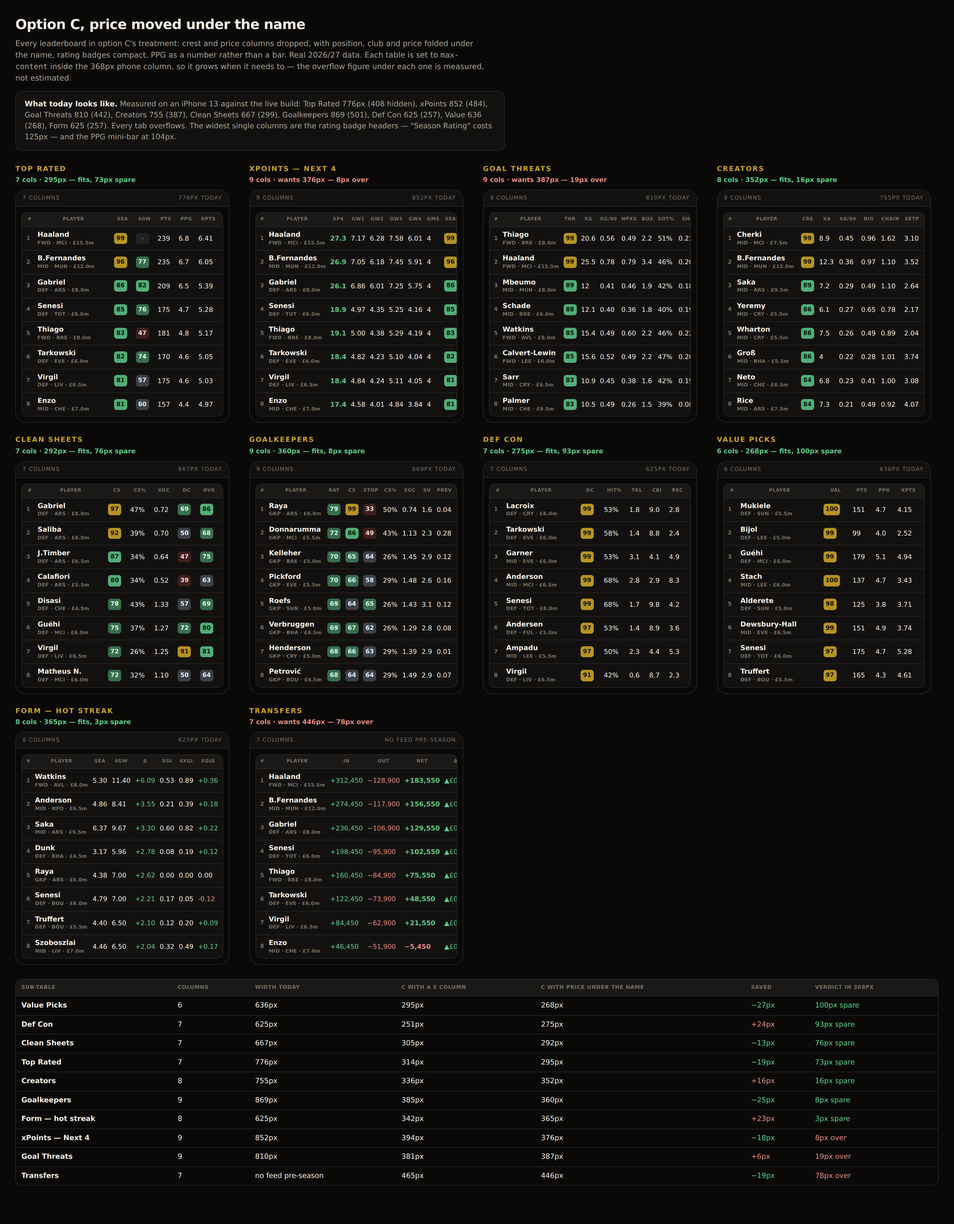
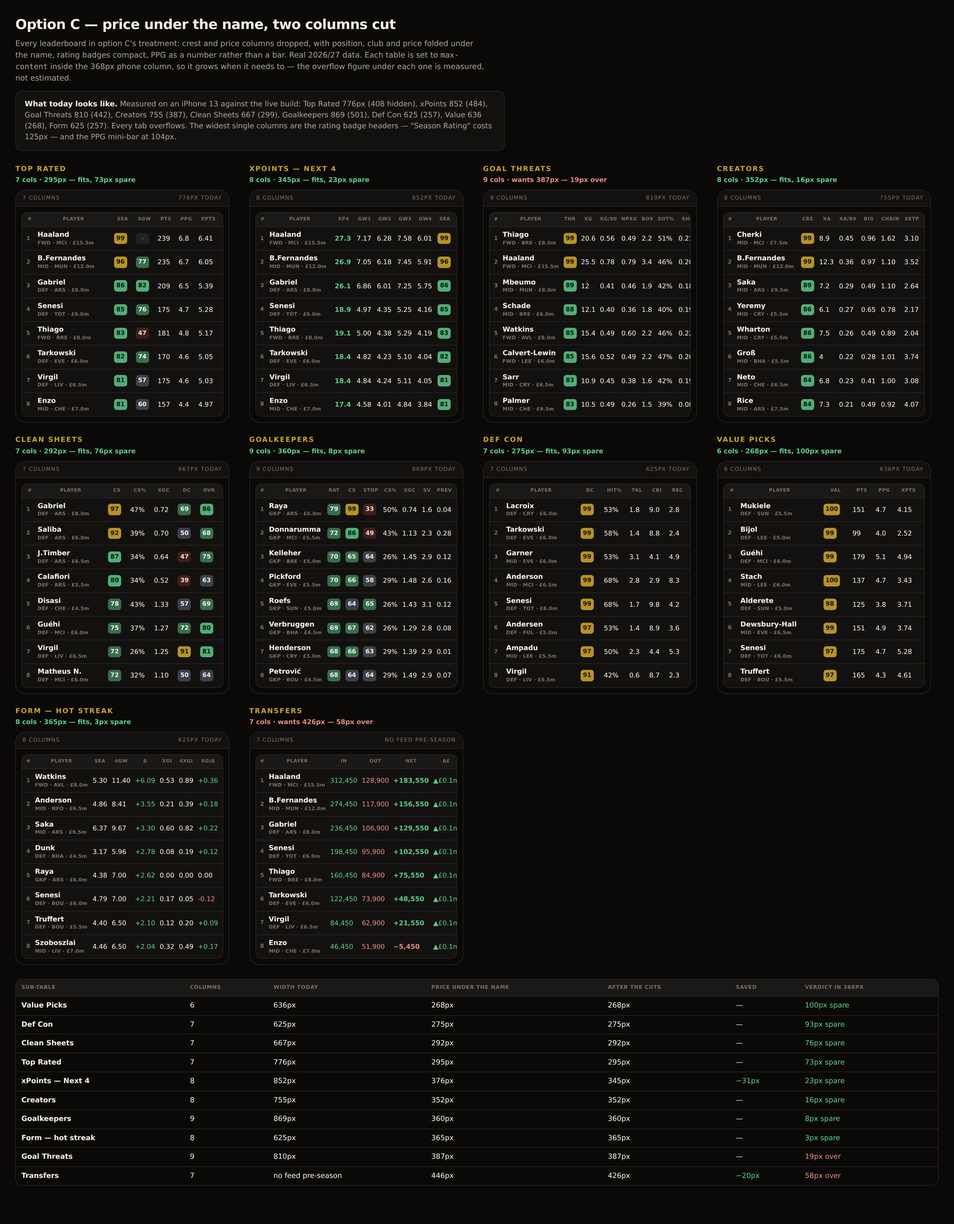
Cut the games column and the transfer signs
xPoints drops Games — the per-gameweek columns already show 0.00 for a
blank and a double's combined total, so the count restated what was on
the same row. It now fits with 23px to spare.

Transfers loses the + and − : the header and the red/green say the
direction. Worth 20px, which leaves it 58px over rather than 78.

diff --git a/mockups/players-c-all.html b/mockups/players-c-all.html
@@ -35,14 +35,14 @@ th:first-child,td:first-child{padding-left:8px}th:last-child,td:last-child{paddi
 .tot td{padding:7px 10px;white-space:normal}
 </style>
 </head><body><div class="wrap">
-<h1>Option C, price moved under the name</h1>
+<h1>Option C — price under the name, two columns cut</h1>
 <p class="sub">Every leaderboard in option C's treatment: crest and price columns dropped, with position, club and price folded under the name, rating badges compact, PPG as a number rather than a bar. Real 2026/27 data. Each table is set to <code>max-content</code> inside the 368px phone column, so it grows when it needs to — the overflow figure under each one is measured, not estimated.</p>
 <div class="note"><b>What today looks like.</b> Measured on an iPhone 13 against the live build: Top Rated 776px (408 hidden), xPoints 852 (484), Goal Threats 810 (442), Creators 755 (387), Clean Sheets 667 (299), Goalkeepers 869 (501), Def Con 625 (257), Value 636 (268), Form 625 (257). Every tab overflows. The widest single columns are the rating badge headers — "Season Rating" costs 125px — and the PPG mini-bar at 104px.</div>
 <div class="grid" id="cols"><div class="col"><h2>Top Rated</h2><p class="verdict fits" id="v-top-rated">7 cols · 295px — fits, 73px spare</p>
    <div class="phone"><div class="ph-top"><span>7 columns</span><span>776px today</span></div>
-   <div class="body"><div class="lst" id="box-top-rated"><table style="min-width: 100%;"><tbody><tr><th>#</th><th>Player</th><th>Sea</th><th>4GW</th><th>Pts</th><th>PPG</th><th>xPts</th></tr><tr><td class="rk">1</td><td><div class="nm">Haaland</div><div class="meta">FWD · MCI · £15.5m</div></td><td><span class="badge g90">99</span></td><td><span class="badge g60" style="opacity:.35">–</span></td><td>239</td><td>6.8</td><td>6.41</td></tr><tr><td class="rk">2</td><td><div class="nm">B.Fernandes</div><div class="meta">MID · MUN · £12.0m</div></td><td><span class="badge g90">96</span></td><td><span class="badge g70">77</span></td><td>235</td><td>6.7</td><td>6.05</td></tr><tr><td class="rk">3</td><td><div class="nm">Gabriel</div><div class="meta">DEF · ARS · £8.0m</div></td><td><span class="badge g80">86</span></td><td><span class="badge g80">82</span></td><td>209</td><td>6.5</td><td>5.39</td></tr><tr><td class="rk">4</td><td><div class="nm">Senesi</div><div class="meta">DEF · TOT · £6.0m</div></td><td><span class="badge g80">85</span></td><td><span class="badge g70">76</span></td><td>175</td><td>4.7</td><td>5.28</td></tr><tr><td class="rk">5</td><td><div class="nm">Thiago</div><div class="meta">FWD · BRE · £8.0m</div></td><td><span class="badge g80">83</span></td><td><span class="badge gl">47</span></td><td>181</td><td>4.8</td><td>5.17</td></tr><tr><td class="rk">6</td><td><div class="nm">Tarkowski</div><div class="meta">DEF · EVE · £6.0m</div></td><td><span class="badge g80">82</span></td><td><span class="badge g70">74</span></td><td>170</td><td>4.6</td><td>5.05</td></tr><tr><td class="rk">7</td><td><div class="nm">Virgil</div><div class="meta">DEF · LIV · £6.5m</div></td><td><span class="badge g80">81</span></td><td><span class="badge g60">57</span></td><td>175</td><td>4.6</td><td>5.03</td></tr><tr><td class="rk">8</td><td><div class="nm">Enzo</div><div class="meta">MID · CHE · £7.0m</div></td><td><span class="badge g80">81</span></td><td><span class="badge g60">60</span></td><td>157</td><td>4.4</td><td>4.97</td></tr></tbody></table></div></div></div></div><div class="col"><h2>xPoints — Next 4</h2><p class="verdict over" id="v-xpoints">9 cols · wants 376px — 8px over</p>
-   <div class="phone"><div class="ph-top"><span>9 columns</span><span>852px today</span></div>
-   <div class="body"><div class="lst" id="box-xpoints"><table style="min-width: 100%;"><tbody><tr><th>#</th><th>Player</th><th>xP4</th><th>GW1</th><th>GW2</th><th>GW3</th><th>GW4</th><th>Gms</th><th>Sea</th></tr><tr><td class="rk">1</td><td><div class="nm">Haaland</div><div class="meta">FWD · MCI · £15.5m</div></td><td><b class="good">27.3</b></td><td>7.17</td><td>6.28</td><td>7.58</td><td>6.01</td><td>4</td><td><span class="badge g90">99</span></td></tr><tr><td class="rk">2</td><td><div class="nm">B.Fernandes</div><div class="meta">MID · MUN · £12.0m</div></td><td><b class="good">26.9</b></td><td>7.05</td><td>6.18</td><td>7.45</td><td>5.91</td><td>4</td><td><span class="badge g90">96</span></td></tr><tr><td class="rk">3</td><td><div class="nm">Gabriel</div><div class="meta">DEF · ARS · £8.0m</div></td><td><b class="good">26.1</b></td><td>6.86</td><td>6.01</td><td>7.25</td><td>5.75</td><td>4</td><td><span class="badge g80">86</span></td></tr><tr><td class="rk">4</td><td><div class="nm">Senesi</div><div class="meta">DEF · TOT · £6.0m</div></td><td><b class="good">18.9</b></td><td>4.97</td><td>4.35</td><td>5.25</td><td>4.16</td><td>4</td><td><span class="badge g80">85</span></td></tr><tr><td class="rk">5</td><td><div class="nm">Thiago</div><div class="meta">FWD · BRE · £8.0m</div></td><td><b class="good">19.1</b></td><td>5.00</td><td>4.38</td><td>5.29</td><td>4.19</td><td>4</td><td><span class="badge g80">83</span></td></tr><tr><td class="rk">6</td><td><div class="nm">Tarkowski</div><div class="meta">DEF · EVE · £6.0m</div></td><td><b class="good">18.4</b></td><td>4.82</td><td>4.23</td><td>5.10</td><td>4.04</td><td>4</td><td><span class="badge g80">82</span></td></tr><tr><td class="rk">7</td><td><div class="nm">Virgil</div><div class="meta">DEF · LIV · £6.5m</div></td><td><b class="good">18.4</b></td><td>4.84</td><td>4.24</td><td>5.11</td><td>4.05</td><td>4</td><td><span class="badge g80">81</span></td></tr><tr><td class="rk">8</td><td><div class="nm">Enzo</div><div class="meta">MID · CHE · £7.0m</div></td><td><b class="good">17.4</b></td><td>4.58</td><td>4.01</td><td>4.84</td><td>3.84</td><td>4</td><td><span class="badge g80">81</span></td></tr></tbody></table></div></div></div></div><div class="col"><h2>Goal Threats</h2><p class="verdict over" id="v-goal-threats">9 cols · wants 387px — 19px over</p>
+   <div class="body"><div class="lst" id="box-top-rated"><table style="min-width: 100%;"><tbody><tr><th>#</th><th>Player</th><th>Sea</th><th>4GW</th><th>Pts</th><th>PPG</th><th>xPts</th></tr><tr><td class="rk">1</td><td><div class="nm">Haaland</div><div class="meta">FWD · MCI · £15.5m</div></td><td><span class="badge g90">99</span></td><td><span class="badge g60" style="opacity:.35">–</span></td><td>239</td><td>6.8</td><td>6.41</td></tr><tr><td class="rk">2</td><td><div class="nm">B.Fernandes</div><div class="meta">MID · MUN · £12.0m</div></td><td><span class="badge g90">96</span></td><td><span class="badge g70">77</span></td><td>235</td><td>6.7</td><td>6.05</td></tr><tr><td class="rk">3</td><td><div class="nm">Gabriel</div><div class="meta">DEF · ARS · £8.0m</div></td><td><span class="badge g80">86</span></td><td><span class="badge g80">82</span></td><td>209</td><td>6.5</td><td>5.39</td></tr><tr><td class="rk">4</td><td><div class="nm">Senesi</div><div class="meta">DEF · TOT · £6.0m</div></td><td><span class="badge g80">85</span></td><td><span class="badge g70">76</span></td><td>175</td><td>4.7</td><td>5.28</td></tr><tr><td class="rk">5</td><td><div class="nm">Thiago</div><div class="meta">FWD · BRE · £8.0m</div></td><td><span class="badge g80">83</span></td><td><span class="badge gl">47</span></td><td>181</td><td>4.8</td><td>5.17</td></tr><tr><td class="rk">6</td><td><div class="nm">Tarkowski</div><div class="meta">DEF · EVE · £6.0m</div></td><td><span class="badge g80">82</span></td><td><span class="badge g70">74</span></td><td>170</td><td>4.6</td><td>5.05</td></tr><tr><td class="rk">7</td><td><div class="nm">Virgil</div><div class="meta">DEF · LIV · £6.5m</div></td><td><span class="badge g80">81</span></td><td><span class="badge g60">57</span></td><td>175</td><td>4.6</td><td>5.03</td></tr><tr><td class="rk">8</td><td><div class="nm">Enzo</div><div class="meta">MID · CHE · £7.0m</div></td><td><span class="badge g80">81</span></td><td><span class="badge g60">60</span></td><td>157</td><td>4.4</td><td>4.97</td></tr></tbody></table></div></div></div></div><div class="col"><h2>xPoints — Next 4</h2><p class="verdict fits" id="v-xpoints">8 cols · 345px — fits, 23px spare</p>
+   <div class="phone"><div class="ph-top"><span>8 columns</span><span>852px today</span></div>
+   <div class="body"><div class="lst" id="box-xpoints"><table style="min-width: 100%;"><tbody><tr><th>#</th><th>Player</th><th>xP4</th><th>GW1</th><th>GW2</th><th>GW3</th><th>GW4</th><th>Sea</th></tr><tr><td class="rk">1</td><td><div class="nm">Haaland</div><div class="meta">FWD · MCI · £15.5m</div></td><td><b class="good">27.3</b></td><td>7.17</td><td>6.28</td><td>7.58</td><td>6.01</td><td><span class="badge g90">99</span></td></tr><tr><td class="rk">2</td><td><div class="nm">B.Fernandes</div><div class="meta">MID · MUN · £12.0m</div></td><td><b class="good">26.9</b></td><td>7.05</td><td>6.18</td><td>7.45</td><td>5.91</td><td><span class="badge g90">96</span></td></tr><tr><td class="rk">3</td><td><div class="nm">Gabriel</div><div class="meta">DEF · ARS · £8.0m</div></td><td><b class="good">26.1</b></td><td>6.86</td><td>6.01</td><td>7.25</td><td>5.75</td><td><span class="badge g80">86</span></td></tr><tr><td class="rk">4</td><td><div class="nm">Senesi</div><div class="meta">DEF · TOT · £6.0m</div></td><td><b class="good">18.9</b></td><td>4.97</td><td>4.35</td><td>5.25</td><td>4.16</td><td><span class="badge g80">85</span></td></tr><tr><td class="rk">5</td><td><div class="nm">Thiago</div><div class="meta">FWD · BRE · £8.0m</div></td><td><b class="good">19.1</b></td><td>5.00</td><td>4.38</td><td>5.29</td><td>4.19</td><td><span class="badge g80">83</span></td></tr><tr><td class="rk">6</td><td><div class="nm">Tarkowski</div><div class="meta">DEF · EVE · £6.0m</div></td><td><b class="good">18.4</b></td><td>4.82</td><td>4.23</td><td>5.10</td><td>4.04</td><td><span class="badge g80">82</span></td></tr><tr><td class="rk">7</td><td><div class="nm">Virgil</div><div class="meta">DEF · LIV · £6.5m</div></td><td><b class="good">18.4</b></td><td>4.84</td><td>4.24</td><td>5.11</td><td>4.05</td><td><span class="badge g80">81</span></td></tr><tr><td class="rk">8</td><td><div class="nm">Enzo</div><div class="meta">MID · CHE · £7.0m</div></td><td><b class="good">17.4</b></td><td>4.58</td><td>4.01</td><td>4.84</td><td>3.84</td><td><span class="badge g80">81</span></td></tr></tbody></table></div></div></div></div><div class="col"><h2>Goal Threats</h2><p class="verdict over" id="v-goal-threats">9 cols · wants 387px — 19px over</p>
    <div class="phone"><div class="ph-top"><span>9 columns</span><span>810px today</span></div>
    <div class="body"><div class="lst" id="box-goal-threats"><table style="min-width: 100%;"><tbody><tr><th>#</th><th>Player</th><th>Thr</th><th>xG</th><th>xG/90</th><th>npxG</th><th>Box</th><th>SoT%</th><th>ShQ</th></tr><tr><td class="rk">1</td><td><div class="nm">Thiago</div><div class="meta">FWD · BRE · £8.0m</div></td><td><span class="badge g90">99</span></td><td>20.6</td><td>0.56</td><td>0.49</td><td>2.2</td><td>51%</td><td>0.212</td></tr><tr><td class="rk">2</td><td><div class="nm">Haaland</div><div class="meta">FWD · MCI · £15.5m</div></td><td><span class="badge g90">99</span></td><td>25.5</td><td>0.78</td><td>0.79</td><td>3.4</td><td>46%</td><td>0.206</td></tr><tr><td class="rk">3</td><td><div class="nm">Mbeumo</div><div class="meta">MID · MUN · £8.0m</div></td><td><span class="badge g80">89</span></td><td>12</td><td>0.41</td><td>0.46</td><td>1.9</td><td>42%</td><td>0.182</td></tr><tr><td class="rk">4</td><td><div class="nm">Schade</div><div class="meta">MID · BRE · £6.0m</div></td><td><span class="badge g80">88</span></td><td>12.1</td><td>0.40</td><td>0.36</td><td>1.8</td><td>40%</td><td>0.194</td></tr><tr><td class="rk">5</td><td><div class="nm">Watkins</div><div class="meta">FWD · AVL · £8.0m</div></td><td><span class="badge g80">85</span></td><td>15.4</td><td>0.49</td><td>0.60</td><td>2.2</td><td>46%</td><td>0.227</td></tr><tr><td class="rk">6</td><td><div class="nm">Calvert-Lewin</div><div class="meta">FWD · LEE · £6.0m</div></td><td><span class="badge g80">85</span></td><td>15.6</td><td>0.52</td><td>0.49</td><td>2.2</td><td>47%</td><td>0.204</td></tr><tr><td class="rk">7</td><td><div class="nm">Sarr</div><div class="meta">MID · CRY · £6.5m</div></td><td><span class="badge g80">83</span></td><td>10.9</td><td>0.45</td><td>0.38</td><td>1.6</td><td>42%</td><td>0.193</td></tr><tr><td class="rk">8</td><td><div class="nm">Palmer</div><div class="meta">MID · CHE · £9.5m</div></td><td><span class="badge g80">83</span></td><td>10.5</td><td>0.49</td><td>0.26</td><td>1.5</td><td>39%</td><td>0.089</td></tr></tbody></table></div></div></div></div><div class="col"><h2>Creators</h2><p class="verdict fits" id="v-creators">8 cols · 352px — fits, 16px spare</p>
    <div class="phone"><div class="ph-top"><span>8 columns</span><span>755px today</span></div>
@@ -56,32 +56,32 @@ th:first-child,td:first-child{padding-left:8px}th:last-child,td:last-child{paddi
    <div class="phone"><div class="ph-top"><span>6 columns</span><span>636px today</span></div>
    <div class="body"><div class="lst" id="box-value"><table style="min-width: 100%;"><tbody><tr><th>#</th><th>Player</th><th>Val</th><th>Pts</th><th>PPG</th><th>xPts</th></tr><tr><td class="rk">1</td><td><div class="nm">Mukiele</div><div class="meta">DEF · SUN · £5.5m</div></td><td><span class="badge g90">100</span></td><td>151</td><td>4.7</td><td>4.15</td></tr><tr><td class="rk">2</td><td><div class="nm">Bijol</div><div class="meta">DEF · LEE · £5.0m</div></td><td><span class="badge g90">99</span></td><td>99</td><td>4.0</td><td>2.52</td></tr><tr><td class="rk">3</td><td><div class="nm">Guéhi</div><div class="meta">DEF · MCI · £6.0m</div></td><td><span class="badge g90">99</span></td><td>179</td><td>5.1</td><td>4.94</td></tr><tr><td class="rk">4</td><td><div class="nm">Stach</div><div class="meta">MID · LEE · £6.0m</div></td><td><span class="badge g90">100</span></td><td>137</td><td>4.7</td><td>3.43</td></tr><tr><td class="rk">5</td><td><div class="nm">Alderete</div><div class="meta">DEF · SUN · £5.0m</div></td><td><span class="badge g90">98</span></td><td>125</td><td>3.8</td><td>3.71</td></tr><tr><td class="rk">6</td><td><div class="nm">Dewsbury-Hall</div><div class="meta">MID · EVE · £6.5m</div></td><td><span class="badge g90">99</span></td><td>151</td><td>4.9</td><td>3.74</td></tr><tr><td class="rk">7</td><td><div class="nm">Senesi</div><div class="meta">DEF · TOT · £6.0m</div></td><td><span class="badge g90">97</span></td><td>175</td><td>4.7</td><td>5.28</td></tr><tr><td class="rk">8</td><td><div class="nm">Truffert</div><div class="meta">DEF · BOU · £5.5m</div></td><td><span class="badge g90">97</span></td><td>165</td><td>4.3</td><td>4.61</td></tr></tbody></table></div></div></div></div><div class="col"><h2>Form — hot streak</h2><p class="verdict fits" id="v-form">8 cols · 365px — fits, 3px spare</p>
    <div class="phone"><div class="ph-top"><span>8 columns</span><span>625px today</span></div>
-   <div class="body"><div class="lst" id="box-form"><table style="min-width: 100%;"><tbody><tr><th>#</th><th>Player</th><th>Sea</th><th>4GW</th><th>Δ</th><th>xGI</th><th>4xGI</th><th>xGIΔ</th></tr><tr><td class="rk">1</td><td><div class="nm">Watkins</div><div class="meta">FWD · AVL · £8.0m</div></td><td>5.30</td><td>11.40</td><td><span class="good">+6.09</span></td><td>0.53</td><td>0.89</td><td><span class="good">+0.36</span></td></tr><tr><td class="rk">2</td><td><div class="nm">Anderson</div><div class="meta">MID · NFO · £6.5m</div></td><td>4.86</td><td>8.41</td><td><span class="good">+3.55</span></td><td>0.21</td><td>0.39</td><td><span class="good">+0.18</span></td></tr><tr><td class="rk">3</td><td><div class="nm">Saka</div><div class="meta">MID · ARS · £9.5m</div></td><td>6.37</td><td>9.67</td><td><span class="good">+3.30</span></td><td>0.60</td><td>0.82</td><td><span class="good">+0.22</span></td></tr><tr><td class="rk">4</td><td><div class="nm">Dunk</div><div class="meta">DEF · BHA · £4.5m</div></td><td>3.17</td><td>5.96</td><td><span class="good">+2.78</span></td><td>0.08</td><td>0.19</td><td><span class="good">+0.12</span></td></tr><tr><td class="rk">5</td><td><div class="nm">Raya</div><div class="meta">GKP · ARS · £6.0m</div></td><td>4.38</td><td>7.00</td><td><span class="good">+2.62</span></td><td>0.00</td><td>0.00</td><td><span class="">0.00</span></td></tr><tr><td class="rk">6</td><td><div class="nm">Senesi</div><div class="meta">DEF · BOU · £6.0m</div></td><td>4.79</td><td>7.00</td><td><span class="good">+2.21</span></td><td>0.17</td><td>0.05</td><td><span class="bad">-0.12</span></td></tr><tr><td class="rk">7</td><td><div class="nm">Truffert</div><div class="meta">DEF · BOU · £5.5m</div></td><td>4.40</td><td>6.50</td><td><span class="good">+2.10</span></td><td>0.12</td><td>0.20</td><td><span class="good">+0.09</span></td></tr><tr><td class="rk">8</td><td><div class="nm">Szoboszlai</div><div class="meta">MID · LIV · £7.0m</div></td><td>4.46</td><td>6.50</td><td><span class="good">+2.04</span></td><td>0.32</td><td>0.49</td><td><span class="good">+0.17</span></td></tr></tbody></table></div></div></div></div><div class="col"><h2>Transfers</h2><p class="verdict over" id="v-transfers">7 cols · wants 446px — 78px over</p>
+   <div class="body"><div class="lst" id="box-form"><table style="min-width: 100%;"><tbody><tr><th>#</th><th>Player</th><th>Sea</th><th>4GW</th><th>Δ</th><th>xGI</th><th>4xGI</th><th>xGIΔ</th></tr><tr><td class="rk">1</td><td><div class="nm">Watkins</div><div class="meta">FWD · AVL · £8.0m</div></td><td>5.30</td><td>11.40</td><td><span class="good">+6.09</span></td><td>0.53</td><td>0.89</td><td><span class="good">+0.36</span></td></tr><tr><td class="rk">2</td><td><div class="nm">Anderson</div><div class="meta">MID · NFO · £6.5m</div></td><td>4.86</td><td>8.41</td><td><span class="good">+3.55</span></td><td>0.21</td><td>0.39</td><td><span class="good">+0.18</span></td></tr><tr><td class="rk">3</td><td><div class="nm">Saka</div><div class="meta">MID · ARS · £9.5m</div></td><td>6.37</td><td>9.67</td><td><span class="good">+3.30</span></td><td>0.60</td><td>0.82</td><td><span class="good">+0.22</span></td></tr><tr><td class="rk">4</td><td><div class="nm">Dunk</div><div class="meta">DEF · BHA · £4.5m</div></td><td>3.17</td><td>5.96</td><td><span class="good">+2.78</span></td><td>0.08</td><td>0.19</td><td><span class="good">+0.12</span></td></tr><tr><td class="rk">5</td><td><div class="nm">Raya</div><div class="meta">GKP · ARS · £6.0m</div></td><td>4.38</td><td>7.00</td><td><span class="good">+2.62</span></td><td>0.00</td><td>0.00</td><td><span class="">0.00</span></td></tr><tr><td class="rk">6</td><td><div class="nm">Senesi</div><div class="meta">DEF · BOU · £6.0m</div></td><td>4.79</td><td>7.00</td><td><span class="good">+2.21</span></td><td>0.17</td><td>0.05</td><td><span class="bad">-0.12</span></td></tr><tr><td class="rk">7</td><td><div class="nm">Truffert</div><div class="meta">DEF · BOU · £5.5m</div></td><td>4.40</td><td>6.50</td><td><span class="good">+2.10</span></td><td>0.12</td><td>0.20</td><td><span class="good">+0.09</span></td></tr><tr><td class="rk">8</td><td><div class="nm">Szoboszlai</div><div class="meta">MID · LIV · £7.0m</div></td><td>4.46</td><td>6.50</td><td><span class="good">+2.04</span></td><td>0.32</td><td>0.49</td><td><span class="good">+0.17</span></td></tr></tbody></table></div></div></div></div><div class="col"><h2>Transfers</h2><p class="verdict over" id="v-transfers">7 cols · wants 426px — 58px over</p>
    <div class="phone"><div class="ph-top"><span>7 columns</span><span>no feed pre-season</span></div>
-   <div class="body"><div class="lst" id="box-transfers"><table style="min-width: 100%;"><tbody><tr><th>#</th><th>Player</th><th>In</th><th>Out</th><th>Net</th><th>Δ£</th><th>Own</th></tr><tr><td class="rk">1</td><td><div class="nm">Haaland</div><div class="meta">FWD · MCI · £15.5m</div></td><td><span class="good">+312,450</span></td><td><span class="bad">−128,900</span></td><td><b class="good">+183,550</b></td><td><span class="good">▲£0.1m</span></td><td>48.2%</td></tr><tr><td class="rk">2</td><td><div class="nm">B.Fernandes</div><div class="meta">MID · MUN · £12.0m</div></td><td><span class="good">+274,450</span></td><td><span class="bad">−117,900</span></td><td><b class="good">+156,550</b></td><td><span class="good">▲£0.1m</span></td><td>44.1%</td></tr><tr><td class="rk">3</td><td><div class="nm">Gabriel</div><div class="meta">DEF · ARS · £8.0m</div></td><td><span class="good">+236,450</span></td><td><span class="bad">−106,900</span></td><td><b class="good">+129,550</b></td><td><span class="good">▲£0.1m</span></td><td>40.0%</td></tr><tr><td class="rk">4</td><td><div class="nm">Senesi</div><div class="meta">DEF · TOT · £6.0m</div></td><td><span class="good">+198,450</span></td><td><span class="bad">−95,900</span></td><td><b class="good">+102,550</b></td><td><span class="good">▲£0.1m</span></td><td>35.9%</td></tr><tr><td class="rk">5</td><td><div class="nm">Thiago</div><div class="meta">FWD · BRE · £8.0m</div></td><td><span class="good">+160,450</span></td><td><span class="bad">−84,900</span></td><td><b class="good">+75,550</b></td><td><span class="good">▲£0.1m</span></td><td>31.8%</td></tr><tr><td class="rk">6</td><td><div class="nm">Tarkowski</div><div class="meta">DEF · EVE · £6.0m</div></td><td><span class="good">+122,450</span></td><td><span class="bad">−73,900</span></td><td><b class="good">+48,550</b></td><td><span class="good">▲£0.1m</span></td><td>27.7%</td></tr><tr><td class="rk">7</td><td><div class="nm">Virgil</div><div class="meta">DEF · LIV · £6.5m</div></td><td><span class="good">+84,450</span></td><td><span class="bad">−62,900</span></td><td><b class="good">+21,550</b></td><td><span class="good">▲£0.1m</span></td><td>23.6%</td></tr><tr><td class="rk">8</td><td><div class="nm">Enzo</div><div class="meta">MID · CHE · £7.0m</div></td><td><span class="good">+46,450</span></td><td><span class="bad">−51,900</span></td><td><b class="bad">−5,450</b></td><td><span class="good">▲£0.1m</span></td><td>19.5%</td></tr></tbody></table></div></div></div></div></div>
+   <div class="body"><div class="lst" id="box-transfers"><table style="min-width: 100%;"><tbody><tr><th>#</th><th>Player</th><th>In</th><th>Out</th><th>Net</th><th>Δ£</th><th>Own</th></tr><tr><td class="rk">1</td><td><div class="nm">Haaland</div><div class="meta">FWD · MCI · £15.5m</div></td><td><span class="good">312,450</span></td><td><span class="bad">128,900</span></td><td><b class="good">+183,550</b></td><td><span class="good">▲£0.1m</span></td><td>48.2%</td></tr><tr><td class="rk">2</td><td><div class="nm">B.Fernandes</div><div class="meta">MID · MUN · £12.0m</div></td><td><span class="good">274,450</span></td><td><span class="bad">117,900</span></td><td><b class="good">+156,550</b></td><td><span class="good">▲£0.1m</span></td><td>44.1%</td></tr><tr><td class="rk">3</td><td><div class="nm">Gabriel</div><div class="meta">DEF · ARS · £8.0m</div></td><td><span class="good">236,450</span></td><td><span class="bad">106,900</span></td><td><b class="good">+129,550</b></td><td><span class="good">▲£0.1m</span></td><td>40.0%</td></tr><tr><td class="rk">4</td><td><div class="nm">Senesi</div><div class="meta">DEF · TOT · £6.0m</div></td><td><span class="good">198,450</span></td><td><span class="bad">95,900</span></td><td><b class="good">+102,550</b></td><td><span class="good">▲£0.1m</span></td><td>35.9%</td></tr><tr><td class="rk">5</td><td><div class="nm">Thiago</div><div class="meta">FWD · BRE · £8.0m</div></td><td><span class="good">160,450</span></td><td><span class="bad">84,900</span></td><td><b class="good">+75,550</b></td><td><span class="good">▲£0.1m</span></td><td>31.8%</td></tr><tr><td class="rk">6</td><td><div class="nm">Tarkowski</div><div class="meta">DEF · EVE · £6.0m</div></td><td><span class="good">122,450</span></td><td><span class="bad">73,900</span></td><td><b class="good">+48,550</b></td><td><span class="good">▲£0.1m</span></td><td>27.7%</td></tr><tr><td class="rk">7</td><td><div class="nm">Virgil</div><div class="meta">DEF · LIV · £6.5m</div></td><td><span class="good">84,450</span></td><td><span class="bad">62,900</span></td><td><b class="good">+21,550</b></td><td><span class="good">▲£0.1m</span></td><td>23.6%</td></tr><tr><td class="rk">8</td><td><div class="nm">Enzo</div><div class="meta">MID · CHE · £7.0m</div></td><td><span class="good">46,450</span></td><td><span class="bad">51,900</span></td><td><b class="bad">−5,450</b></td><td><span class="good">▲£0.1m</span></td><td>19.5%</td></tr></tbody></table></div></div></div></div></div>
 <div class="tot" id="tot"><table>
-<tbody><tr><th>Sub-table</th><th>Columns</th><th>Width today</th><th>C with a £ column</th><th>C with price under the name</th><th>Saved</th><th>Verdict in 368px</th></tr>
-<tr><td><b>Value Picks</b></td><td>6</td><td>636px</td><td>295px</td><td>268px</td>
- <td class="good">−27px</td>
- <td class="good">100px spare</td></tr><tr><td><b>Def Con</b></td><td>7</td><td>625px</td><td>251px</td><td>275px</td>
- <td class="bad">+24px</td>
- <td class="good">93px spare</td></tr><tr><td><b>Clean Sheets</b></td><td>7</td><td>667px</td><td>305px</td><td>292px</td>
- <td class="good">−13px</td>
- <td class="good">76px spare</td></tr><tr><td><b>Top Rated</b></td><td>7</td><td>776px</td><td>314px</td><td>295px</td>
- <td class="good">−19px</td>
- <td class="good">73px spare</td></tr><tr><td><b>Creators</b></td><td>8</td><td>755px</td><td>336px</td><td>352px</td>
- <td class="bad">+16px</td>
- <td class="good">16px spare</td></tr><tr><td><b>Goalkeepers</b></td><td>9</td><td>869px</td><td>385px</td><td>360px</td>
- <td class="good">−25px</td>
- <td class="good">8px spare</td></tr><tr><td><b>Form — hot streak</b></td><td>8</td><td>625px</td><td>342px</td><td>365px</td>
- <td class="bad">+23px</td>
- <td class="good">3px spare</td></tr><tr><td><b>xPoints — Next 4</b></td><td>9</td><td>852px</td><td>394px</td><td>376px</td>
- <td class="good">−18px</td>
- <td class="bad">8px over</td></tr><tr><td><b>Goal Threats</b></td><td>9</td><td>810px</td><td>381px</td><td>387px</td>
- <td class="bad">+6px</td>
- <td class="bad">19px over</td></tr><tr><td><b>Transfers</b></td><td>7</td><td>no feed pre-season</td><td>465px</td><td>446px</td>
- <td class="good">−19px</td>
- <td class="bad">78px over</td></tr>
+<tbody><tr><th>Sub-table</th><th>Columns</th><th>Width today</th><th>Price under the name</th><th>After the cuts</th><th>Saved</th><th>Verdict in 368px</th></tr>
+<tr><td><b>Value Picks</b></td><td>6</td><td>636px</td><td>268px</td><td>268px</td>
+ <td class="">—</td>
+ <td class="good">100px spare</td></tr><tr><td><b>Def Con</b></td><td>7</td><td>625px</td><td>275px</td><td>275px</td>
+ <td class="">—</td>
+ <td class="good">93px spare</td></tr><tr><td><b>Clean Sheets</b></td><td>7</td><td>667px</td><td>292px</td><td>292px</td>
+ <td class="">—</td>
+ <td class="good">76px spare</td></tr><tr><td><b>Top Rated</b></td><td>7</td><td>776px</td><td>295px</td><td>295px</td>
+ <td class="">—</td>
+ <td class="good">73px spare</td></tr><tr><td><b>xPoints — Next 4</b></td><td>8</td><td>852px</td><td>376px</td><td>345px</td>
+ <td class="good">−31px</td>
+ <td class="good">23px spare</td></tr><tr><td><b>Creators</b></td><td>8</td><td>755px</td><td>352px</td><td>352px</td>
+ <td class="">—</td>
+ <td class="good">16px spare</td></tr><tr><td><b>Goalkeepers</b></td><td>9</td><td>869px</td><td>360px</td><td>360px</td>
+ <td class="">—</td>
+ <td class="good">8px spare</td></tr><tr><td><b>Form — hot streak</b></td><td>8</td><td>625px</td><td>365px</td><td>365px</td>
+ <td class="">—</td>
+ <td class="good">3px spare</td></tr><tr><td><b>Goal Threats</b></td><td>9</td><td>810px</td><td>387px</td><td>387px</td>
+ <td class="">—</td>
+ <td class="bad">19px over</td></tr><tr><td><b>Transfers</b></td><td>7</td><td>no feed pre-season</td><td>446px</td><td>426px</td>
+ <td class="good">−20px</td>
+ <td class="bad">58px over</td></tr>
 </tbody></table></div>
 </div>
 

diff --git a/mockups/players-c-all.src.html b/mockups/players-c-all.src.html
@@ -34,7 +34,7 @@ th:first-child,td:first-child{padding-left:8px}th:last-child,td:last-child{paddi
 .tot td{padding:7px 10px;white-space:normal}
 </style>
 <div class="wrap">
-<h1>Option C, price moved under the name</h1>
+<h1>Option C — price under the name, two columns cut</h1>
 <p class="sub">Every leaderboard in option C's treatment: crest and price columns dropped, with position, club and price folded under the name, rating badges compact, PPG as a number rather than a bar. Real 2026/27 data. Each table is set to <code>max-content</code> inside the 368px phone column, so it grows when it needs to — the overflow figure under each one is measured, not estimated.</p>
 <div class="note"><b>What today looks like.</b> Measured on an iPhone 13 against the live build: Top Rated 776px (408 hidden), xPoints 852 (484), Goal Threats 810 (442), Creators 755 (387), Clean Sheets 667 (299), Goalkeepers 869 (501), Def Con 625 (257), Value 636 (268), Form 625 (257). Every tab overflows. The widest single columns are the rating badge headers — "Season Rating" costs 125px — and the PPG mini-bar at 104px.</div>
 <div class="grid" id="cols"></div>
@@ -47,12 +47,12 @@ const bd = v => v==null?'<span class="badge g60" style="opacity:.35">–</span>'
 const nm = p => `<div class="nm">${p.n}</div><div class="meta">${p.pos} · ${p.team}${p.price!=null?' · £'+p.price.toFixed(1)+'m':''}</div>`;
 const sgn = v => `<span class="${v>0?'good':v<0?'bad':''}">${v>0?'+':''}${v}</span>`;
 
-const WAS = {"top-rated": 314, "xpoints": 394, "goal-threats": 381, "creators": 336, "clean-sheets": 305, "goalkeepers": 385, "def-con": 251, "value": 295, "form": 342, "transfers": 465};
+const WAS = {"top-rated": 295, "xpoints": 376, "goal-threats": 387, "creators": 352, "clean-sheets": 292, "goalkeepers": 360, "def-con": 275, "value": 268, "form": 365, "transfers": 446};
 const PANELS = [
  { id:'top-rated', t:'Top Rated', now:776, hdr:['#','Player','Sea','4GW','Pts','PPG','xPts'],
    row:(p,i)=>[i+1, nm(p), bd(p.sea), bd(p.gw4), p.pts, p.ppg.toFixed(1), p.xpts.toFixed(2)] },
- { id:'xpoints', t:'xPoints — Next 4', now:852, hdr:['#','Player','xP4','GW1','GW2','GW3','GW4','Gms','Sea'],
-   row:(p,i)=>[i+1, nm(p), `<b class="good">${p.xp4.toFixed(1)}</b>`, p.g1.toFixed(2), p.g2.toFixed(2), p.g3.toFixed(2), p.g4.toFixed(2), p.games, bd(p.sea)] },
+ { id:'xpoints', t:'xPoints — Next 4', now:852, hdr:['#','Player','xP4','GW1','GW2','GW3','GW4','Sea'],
+   row:(p,i)=>[i+1, nm(p), `<b class="good">${p.xp4.toFixed(1)}</b>`, p.g1.toFixed(2), p.g2.toFixed(2), p.g3.toFixed(2), p.g4.toFixed(2), bd(p.sea)] },
  { id:'goal-threats', t:'Goal Threats', now:810, hdr:['#','Player','Thr','xG','xG/90','npxG','Box','SoT%','ShQ'],
    row:(p,i)=>[i+1, nm(p), bd(p.thr), p.xg, p.xg90.toFixed(2), p.npxg.toFixed(2), p.box.toFixed(1), p.sot+'%', p.q.toFixed(3)] },
  { id:'creators', t:'Creators', now:755, hdr:['#','Player','Cre','xA','xA/90','Big','Chain','SetP'],
@@ -68,7 +68,7 @@ const PANELS = [
  { id:'form', t:'Form — hot streak', now:625, hdr:['#','Player','Sea','4GW','Δ','xGI','4xGI','xGIΔ'],
    row:(p,i)=>[i+1, nm(p), p.s90.toFixed(2), p.f90.toFixed(2), sgn(p.d.toFixed(2)), p.xs.toFixed(2), p.xf.toFixed(2), sgn(p.xd.toFixed(2))] },
  { id:'transfers', t:'Transfers', now:null, hdr:['#','Player','In','Out','Net','Δ£','Own'],
-   row:(p,i)=>[i+1, nm(p), `<span class="good">+${p.tin.toLocaleString()}</span>`, `<span class="bad">−${p.tout.toLocaleString()}</span>`,
+   row:(p,i)=>[i+1, nm(p), `<span class="good">${p.tin.toLocaleString()}</span>`, `<span class="bad">${p.tout.toLocaleString()}</span>`,
      `<b class="${p.tin-p.tout>0?'good':'bad'}">${p.tin-p.tout>0?'+':'−'}${Math.abs(p.tin-p.tout).toLocaleString()}</b>`,
      `<span class="good">▲£0.1m</span>`, p.own+'%'] },
 ];
@@ -100,7 +100,7 @@ const res = PANELS.map(P=>{
 });
 const sorted = [...res].sort((a,b)=>a.w-b.w);
 document.getElementById('tot').innerHTML = `<table>
-<tr><th>Sub-table</th><th>Columns</th><th>Width today</th><th>C with a &pound; column</th><th>C with price under the name</th><th>Saved</th><th>Verdict in 368px</th></tr>
+<tr><th>Sub-table</th><th>Columns</th><th>Width today</th><th>Price under the name</th><th>After the cuts</th><th>Saved</th><th>Verdict in 368px</th></tr>
 ${sorted.map(r=>`<tr><td><b>${r.t}</b></td><td>${r.cols}</td><td>${r.now?r.now+'px':'no feed pre-season'}</td><td>${r.was}px</td><td>${r.w}px</td>
  <td class="${r.was-r.w>0?'good':r.was-r.w<0?'bad':''}">${r.was-r.w>0?'−'+(r.was-r.w)+'px':r.was===r.w?'—':'+'+(r.w-r.was)+'px'}</td>
  <td class="${r.over>0?'bad':'good'}">${r.over>0?r.over+'px over':(-r.over)+'px spare'}</td></tr>`).join('')}
